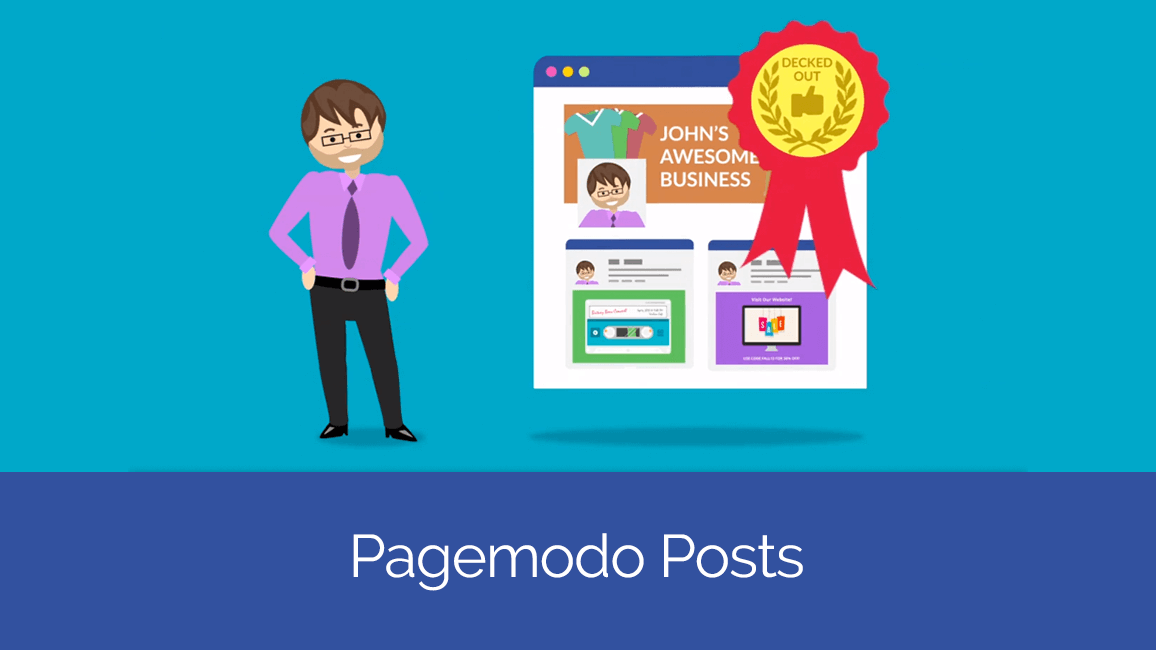
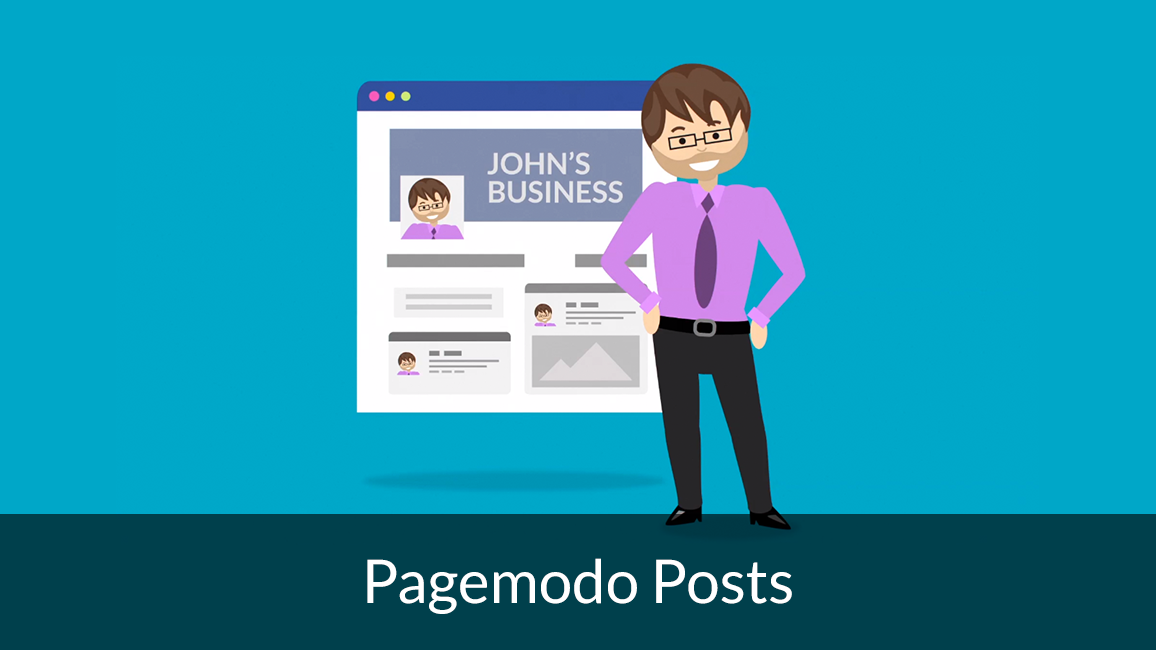
Thumbnail Test
Lets see lets see

diff --git a/mobile.html b/mobile.html
@@ -93,11 +93,11 @@
             </div>
             <div class="row">
                 <div class="col-sm-4 portfolio-item">
-                    <iframe src="//fast.wistia.net/embed/iframe/qwnnuk8slg?controlsVisibleOnLoad=false&playButton=false&stillUrl=http://georgegoodmanproductions.github.io/img/mobilethumbs/dify.png&videoFoam=true&wmode=transparent" allowtransparency="true" frameborder="0" scrolling="no" class="wistia_embed" name="wistia_embed" allowfullscreen mozallowfullscreen webkitallowfullscreen oallowfullscreen msallowfullscreen></iframe>
+                    <iframe src="//fast.wistia.net/embed/iframe/qwnnuk8slg?controlsVisibleOnLoad=false&playButton=false&stillUrl=http://georgegoodmanproductions.github.io/img/mobilethumbs/pagemodoposts.png&videoFoam=true&wmode=transparent" allowtransparency="true" frameborder="0" scrolling="no" class="wistia_embed" name="wistia_embed" allowfullscreen mozallowfullscreen webkitallowfullscreen oallowfullscreen msallowfullscreen></iframe>
                 </div>
                 <div class="col-sm-4 portfolio-item">
                     <script charset="ISO-8859-1" src="//fast.wistia.com/assets/external/E-v1.js" async></script><span class="wistia_embed wistia_async_9x53cj1xu4 popover=true popoverContent=link" style="display:inline">
-                    <a href="#"><img class="img-responsive" src="img/portfolio/backby8.png" alt="Back By 8"> 
+                    <a href="#"><img class="img-responsive" src="img/mobilethumbs/backby8.png" alt="Back By 8"> 
                     </a>
                 </div>
                     <div class="col-sm-4 portfolio-item">
